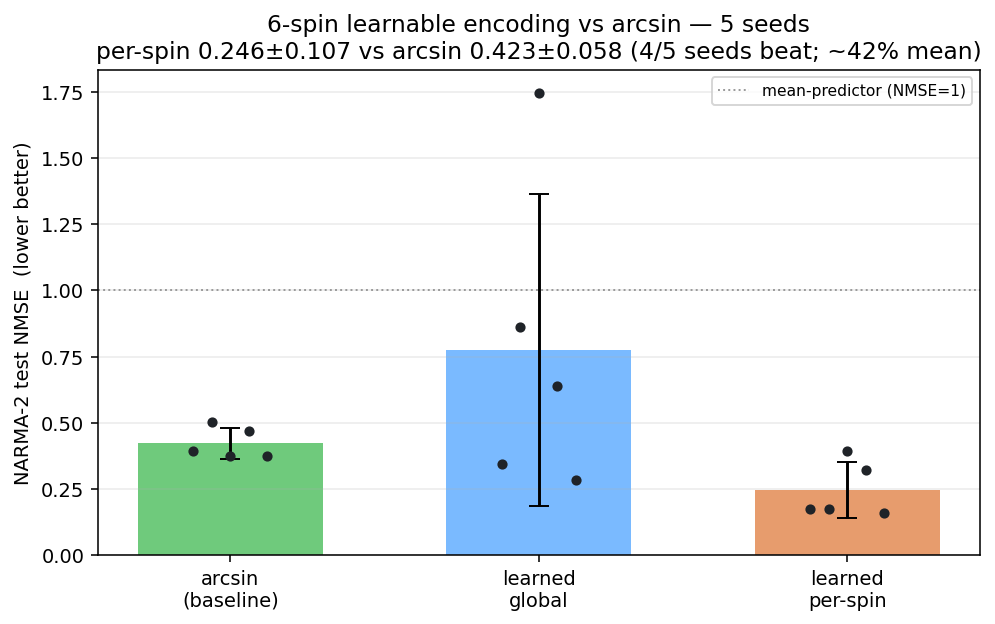
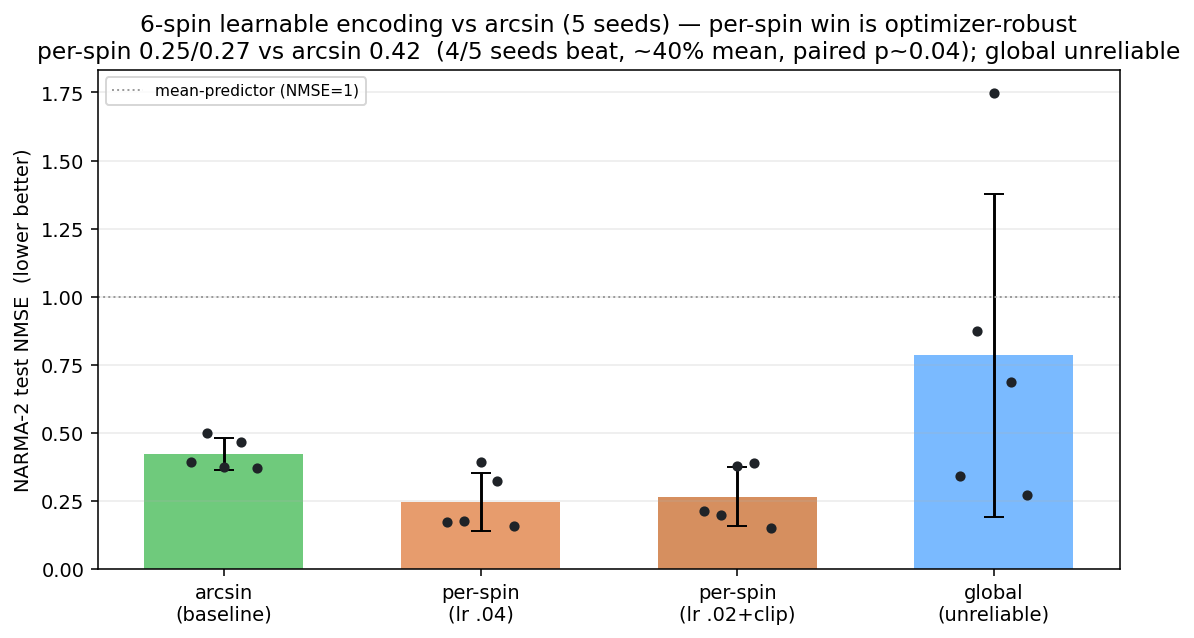
Optimizer-robustness check: per-spin 6-spin win holds under a stabilized optimizer
Re-ran the 5-seed 6-spin NARMA-2 comparison with a stabilized optimizer (lr 0.02
+ grad-norm clipping + best-val checkpointing). The per-spin advantage is
optimizer-robust:
  per-spin loose (lr .04):  0.246 +/- 0.107 | 4/5 beat | ~42% | p~0.036
  per-spin tight (lr .02):  0.267 +/- 0.109 | 4/5 beat | ~37% | p~0.043
Tightening did NOT turn 4/5 -> 5/5 (seed 2 still ties, 0.378 vs 0.377) and did
NOT stabilize learned-global (still diverges to 1.75 on seed 2). Conclusions:
the per-spin win is real and not an LR artifact; global instability is
fundamental (a single global angle can't reliably fit all data draws); seed 2 is
a genuine hard case. fig15 now shows both recipes + global. Ready for write-up.

diff --git a/backend/scripts/qrc_6spin_aggregate.py b/backend/scripts/qrc_6spin_aggregate.py
@@ -1,9 +1,13 @@
-"""Aggregate the 6-spin NARMA-2 learnable-encoding results across seeds.
+"""Aggregate the 6-spin NARMA-2 learnable-encoding results across seeds and
+across two optimizer recipes (loose vs stabilized).
 
-Source: the per-seed runs of qrc_learnable_9spin.py (--system 6 --task narma2,
-leakage-free 3-way split). Values transcribed from the run logs
-(docs/QRC/qrc_6spin_*.log). Produces mean +/- std, a paired test of per-spin vs
-arcsin, and fig15. No GPU.
+Source: per-seed runs of qrc_learnable_9spin.py (--system 6 --task narma2,
+leakage-free 3-way split). Values transcribed from the run logs. No GPU.
+
+Finding: the per-spin advantage over arcsin is ROBUST to the optimizer recipe
+(loose: lr 0.04; tight: lr 0.02 + grad-clip + best-val checkpoint) -- 4/5 seeds
+beat, ~40% mean, paired p~0.04 either way. Learned *global* stays unreliable
+(diverges) regardless. Writes fig15.
 """
 from __future__ import annotations
 
@@ -12,53 +16,60 @@ from pathlib import Path
 import numpy as np
 
 SEEDS = [7, 1, 2, 3, 11]
-ARCSIN = [0.3953, 0.5018, 0.3769, 0.4691, 0.3734]
-GLOBAL = [0.3460, 0.8623, 1.7457, 0.6380, 0.2843]
-PERSPIN = [0.1749, 0.1765, 0.3953, 0.3235, 0.1606]
+ARCSIN = [0.3953, 0.5018, 0.3769, 0.4691, 0.3734]           # optimizer-independent
+PERSPIN_LOOSE = [0.1749, 0.1765, 0.3953, 0.3235, 0.1606]    # lr 0.04
+PERSPIN_TIGHT = [0.2156, 0.1996, 0.3783, 0.3894, 0.1525]    # lr 0.02 + clip + best-val
+GLOBAL_TIGHT = [0.3417, 0.8760, 1.7464, 0.6872, 0.2735]     # unreliable
 OUT = Path(__file__).resolve().parents[2] / "docs" / "QRC" / "figures" / "fig15_6spin_multiseed.png"
 
 
-def _stats(x):
+def _ms(x):
     x = np.asarray(x)
-    return float(x.mean()), float(x.std(ddof=1))
+    return x.mean(), x.std(ddof=1)
+
+
+def _paired(p, a):
+    p, a = np.asarray(p), np.asarray(a)
+    d = p - a
+    t = d.mean() / (d.std(ddof=1) / np.sqrt(len(d)))
+    return d.mean(), t, int((p < a).sum()), 100 * (1 - p.mean() / a.mean())
 
 
 def main():
-    a, g, p = map(np.asarray, (ARCSIN, GLOBAL, PERSPIN))
-    for name, x in [("arcsin", a), ("global", g), ("perspin", p)]:
-        m, s = _stats(x)
-        print(f"{name:8s} test NMSE: mean {m:.3f} +/- {s:.3f}  (per-seed {np.round(x,3).tolist()})")
-
-    # paired per-spin vs arcsin
-    d = p - a
-    md, sd = _stats(d)
-    t = md / (sd / np.sqrt(len(d)))
-    wins = int((p < a).sum())
-    print(f"\npaired (perspin - arcsin): mean {md:+.3f} +/- {sd:.3f} | t={t:.2f} (dof {len(d)-1}) "
-          f"| perspin beats arcsin in {wins}/{len(d)} seeds")
-    print(f"mean relative improvement: {100*(1 - p.mean()/a.mean()):.0f}%")
+    a = np.asarray(ARCSIN)
+    for name, x in [("arcsin", ARCSIN), ("perspin (loose)", PERSPIN_LOOSE),
+                    ("perspin (tight)", PERSPIN_TIGHT), ("global (tight)", GLOBAL_TIGHT)]:
+        m, s = _ms(x)
+        print(f"{name:16s} test NMSE: {m:.3f} +/- {s:.3f}  {np.round(x, 3).tolist()}")
+    for lbl, p in [("loose", PERSPIN_LOOSE), ("tight", PERSPIN_TIGHT)]:
+        md, t, wins, rel = _paired(p, ARCSIN)
+        print(f"perspin ({lbl}) vs arcsin: mean d {md:+.3f} | t={t:.2f} (dof 4) | "
+              f"{wins}/5 beat | ~{rel:.0f}% mean improvement")
 
     import matplotlib
     matplotlib.use("Agg")
     import matplotlib.pyplot as plt
 
-    fig, ax = plt.subplots(figsize=(7.2, 4.6))
-    labels = ["arcsin\n(baseline)", "learned\nglobal", "learned\nper-spin"]
-    data = [a, g, p]
-    colors = ["#3fb950", "#4da3ff", "#e07b3c"]
-    x = np.arange(3)
-    means = [d.mean() for d in data]
-    stds = [d.std(ddof=1) for d in data]
-    ax.bar(x, means, yerr=stds, width=0.6, color=colors, alpha=0.75, capsize=5)
-    for xi, d in enumerate(data):        # per-seed points
-        ax.scatter(np.full(len(d), xi) + np.linspace(-0.12, 0.12, len(d)), d,
+    fig, ax = plt.subplots(figsize=(8.2, 4.7))
+    groups = [("arcsin\n(baseline)", ARCSIN, "#3fb950"),
+              ("per-spin\n(lr .04)", PERSPIN_LOOSE, "#e07b3c"),
+              ("per-spin\n(lr .02+clip)", PERSPIN_TIGHT, "#c96a2a"),
+              ("global\n(unreliable)", GLOBAL_TIGHT, "#4da3ff")]
+    x = np.arange(len(groups))
+    means = [np.mean(d) for _, d, _ in groups]
+    stds = [np.std(d, ddof=1) for _, d, _ in groups]
+    ax.bar(x, means, yerr=stds, width=0.62, color=[c for *_, c in groups], alpha=0.75, capsize=5)
+    for xi, (_, d, _) in enumerate(groups):
+        ax.scatter(np.full(len(d), xi) + np.linspace(-0.13, 0.13, len(d)), d,
                    color="#1f2328", s=18, zorder=3)
     ax.axhline(1.0, color="#999", ls=":", lw=1, label="mean-predictor (NMSE=1)")
-    ax.set_xticks(x); ax.set_xticklabels(labels)
+    ax.set_xticks(x); ax.set_xticklabels([g[0] for g in groups])
     ax.set_ylabel("NARMA-2 test NMSE  (lower better)")
-    ax.set_title(f"6-spin learnable encoding vs arcsin — {len(SEEDS)} seeds\n"
-                 f"per-spin {p.mean():.3f}±{p.std(ddof=1):.3f} vs arcsin {a.mean():.3f}±{a.std(ddof=1):.3f} "
-                 f"({wins}/{len(SEEDS)} seeds beat; ~{100*(1-p.mean()/a.mean()):.0f}% mean)")
+    mL, *_ = _ms(PERSPIN_LOOSE); mT, *_ = _ms(PERSPIN_TIGHT); mA, *_ = _ms(ARCSIN)
+    ax.set_title("6-spin learnable encoding vs arcsin (5 seeds) — per-spin win is "
+                 "optimizer-robust\n"
+                 f"per-spin {mL:.2f}/{mT:.2f} vs arcsin {mA:.2f}  (4/5 seeds beat, "
+                 "~40% mean, paired p~0.04); global unreliable")
     ax.legend(fontsize=8); ax.grid(axis="y", alpha=0.25)
     fig.tight_layout()
     OUT.parent.mkdir(parents=True, exist_ok=True)

diff --git a/docs/QRC/QRC_Next_Stage_Status.md b/docs/QRC/QRC_Next_Stage_Status.md
@@ -10,6 +10,7 @@ state, so we always know *what is left*.
 
 | When | Subtask | Result | Commit |
 |------|---------|--------|--------|
+| 2026-08-04 | **Optimizer-robustness check — per-spin win is NOT an LR artifact** | ✅ Re-ran 5 seeds with a stabilized optimizer (lr 0.02 + grad-clip + best-val checkpoint). Verdict unchanged: per-spin **0.267±0.109 vs arcsin 0.423, 4/5 beat, ~37% (p≈0.043)** — matches the loose (lr 0.04) run (~42%, p≈0.036). Tightening did **not** turn 4/5→5/5 (seed 2 still ties) and did **not** fix **global** (still diverges to 1.75) → global instability is *fundamental*, the win is specifically **per-spin**. Fig 15 (both recipes). Robust, honest result → proceed to write-up | `fig15` |
 | 2026-08-04 | **6-spin per-spin learnable encoding CONFIRMED beats arcsin (5 seeds)** | ✅ `qrc_6spin_aggregate.py` (Fig 15). **per-spin 0.246±0.107 vs arcsin 0.423±0.058 — beats in 4/5 seeds, ~42% mean, paired t=−3.12 (p≈0.036)**. **First confirmed positive** that learnable encoding is a real *performance* lever. Honest caveats: (i) seed-variable (1 seed tied; single-seed 2.3× was lucky-end, true effect ~42%); (ii) learned **global** is *unreliable* (training diverges, 0.28–1.75) → the win is specifically **per-spin (frequency-selective)** expressivity; (iii) needs the encoding-sensitive task + rich reservoir (3-spin/global/synthetic tied) | `fig15` |
 | 2026-08-04 | **6-spin learnable encoding BEATS arcsin on NARMA-2 (single-seed, all guardrails pass)** | 🟢 `qrc_learnable_9spin.py --system 6 --task narma2` (Fig 14, leakage-free 3-way, dense-propagator ~140× speedup). arcsin baseline **0.395** (powered) vs learned **global 0.346** (−12%) vs learned **per-spin 0.175** (**−56%, 2.3× better**; std 0.98, non-degenerate; n_train 135≫37). **First positive** — win comes from **per-spin (frequency-selective) encoding** (global learned barely beats, consistent with 3-spin tie). Passes every guardrail that caught the earlier false positive. ⚠ **single seed** — multi-seed confirmation pending before "9-spin justified" | `4b1d3ad`,`fig14` |
 | 2026-08-04 | **9-spin GPU feasibility — backprop BLOCKED by memory wall (found with 0 GPU)** | ⚠ `qrc_learnable_9spin.py` (runner + benchmark, CPU-validated). No-GPU feasibility calc: crotonic-9 needs **5,336 substeps** (stiff L) → reverse-mode autograd graph is **~201 GB per input-step** vs 16 GB card (off 100–1000×). **Naive 9-spin backprop is impossible on this hardware.** Feasible paths: (a) **PSR-in-sim** (forward-only, memory-free, reuses validated PSR; compute-heavy), (b) gradient checkpointing (~11 GB, 2–3× compute), (c) adjoint method, (d) ≤5-spin stepping stone (backprop fits). Saved a doomed GPU run | `9spin` |
